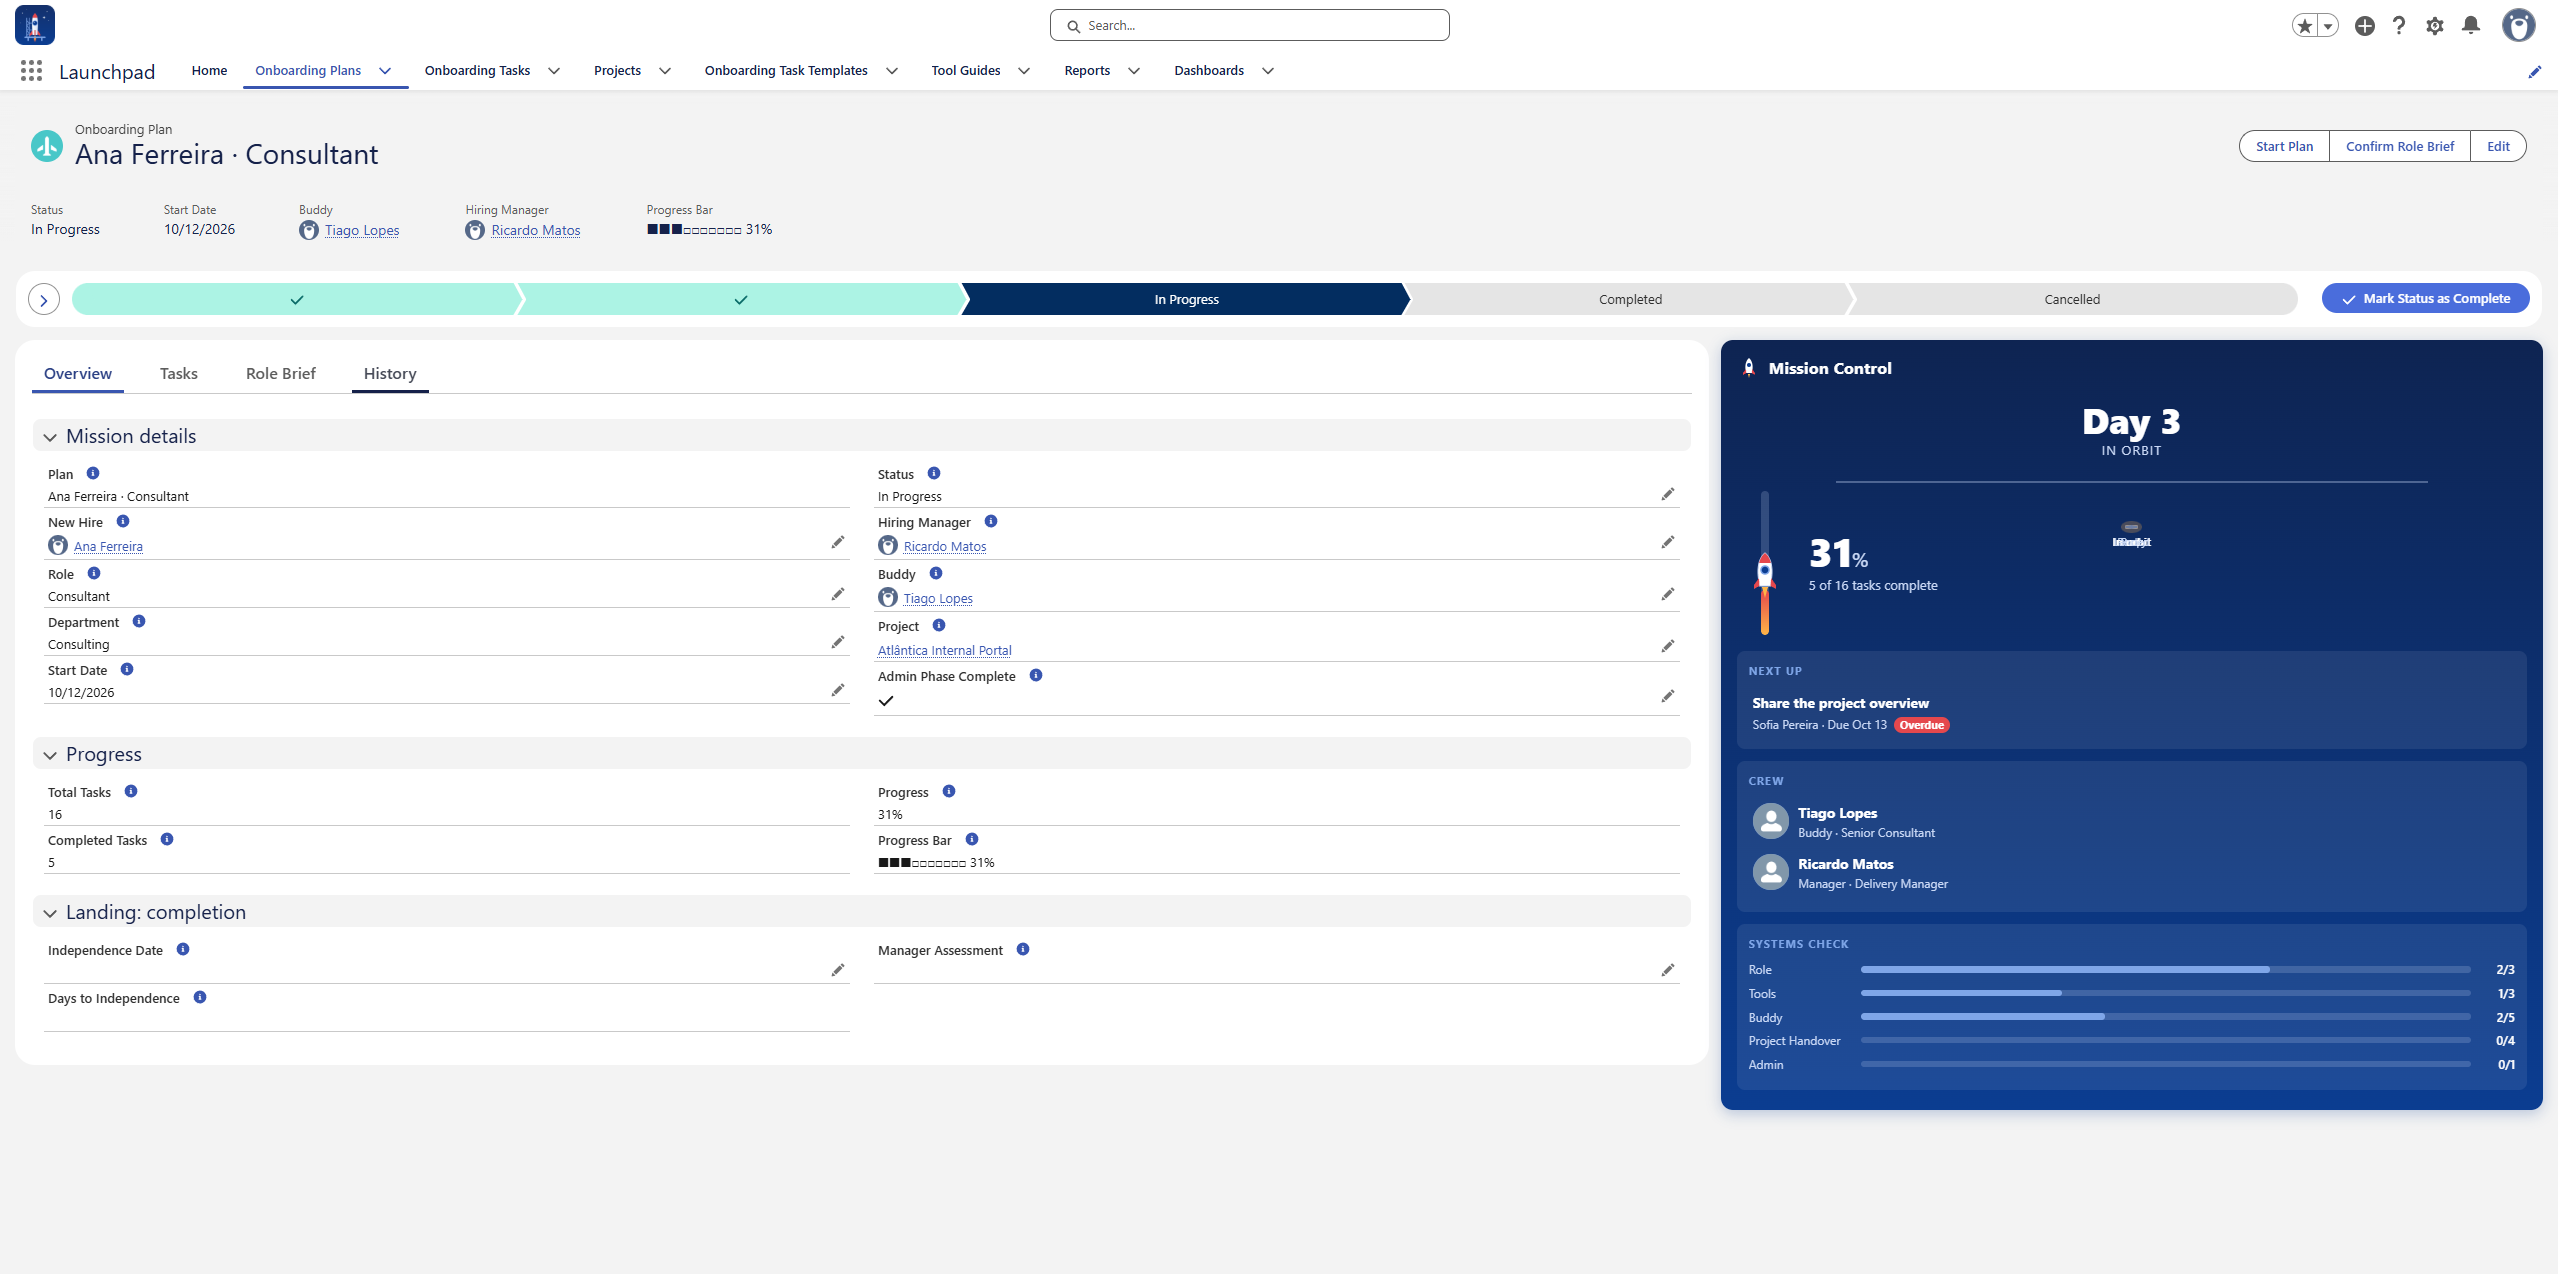
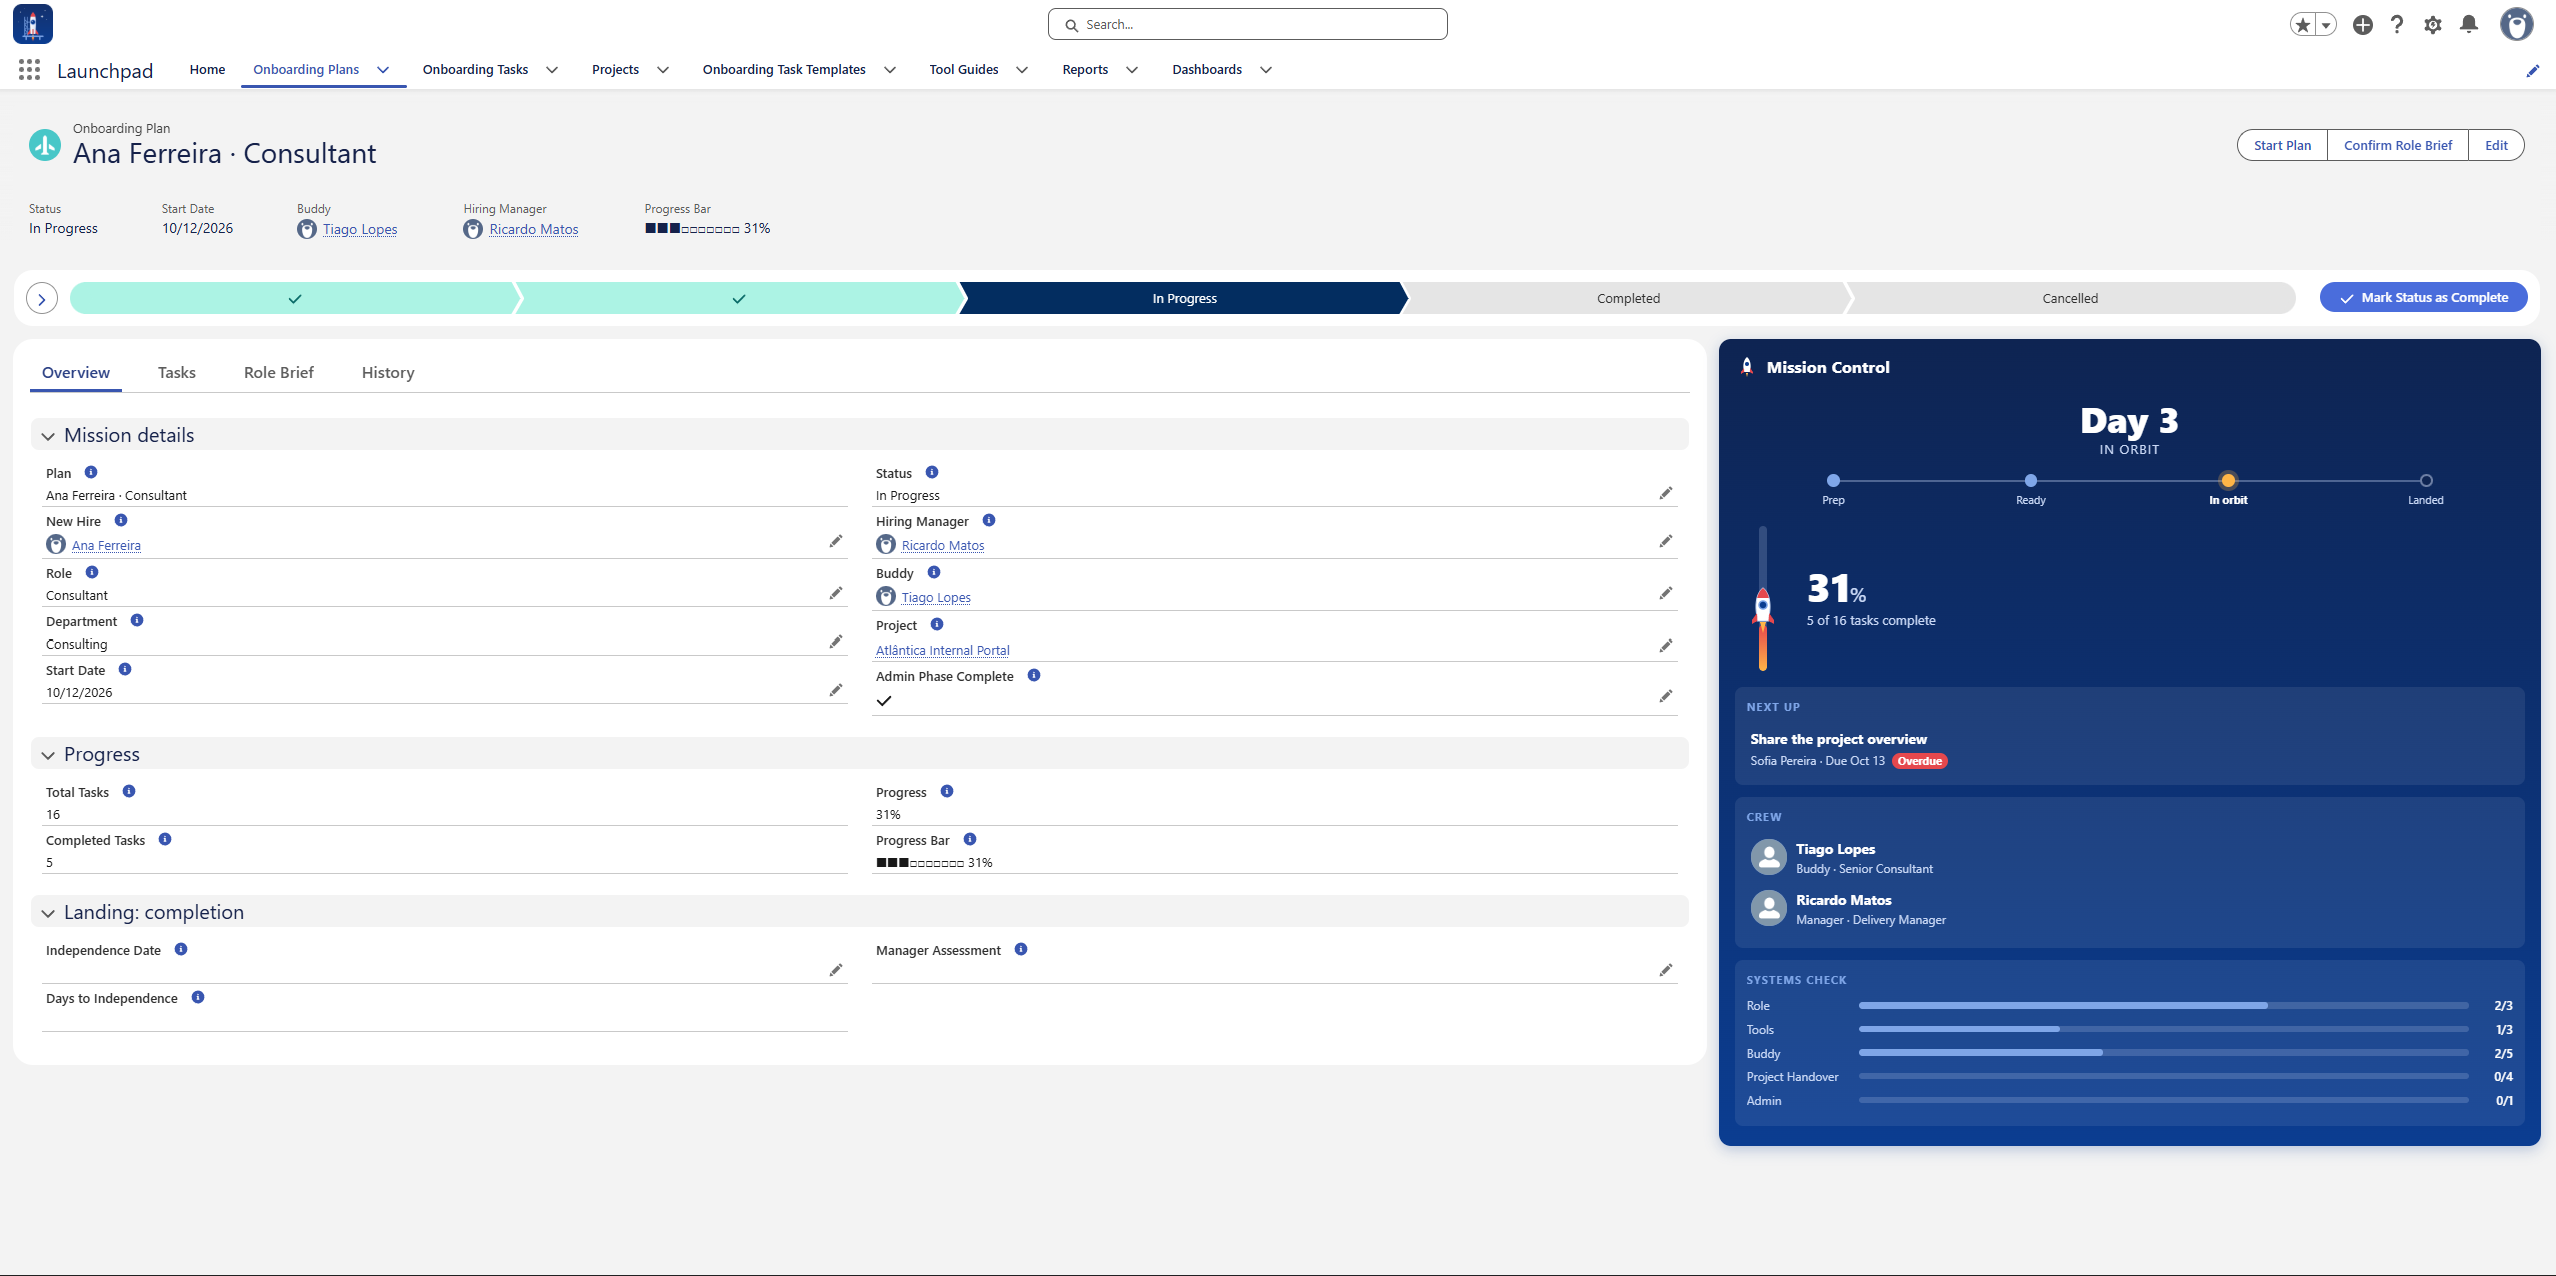
Mission Control: fix stage timeline styling; retake plan screenshot

diff --git a/force-app/main/default/lwc/missionControl/missionControl.css b/force-app/main/default/lwc/missionControl/missionControl.css
@@ -13,14 +13,14 @@
 .mc-countdown-big { font-size: 2.25rem; font-weight: 800; line-height: 1.1; }
 .mc-countdown-small { font-size: 0.8125rem; color: #c9d8f5; text-transform: uppercase; letter-spacing: 0.08em; }
 
-.mc-stages { position: relative; width: 100%; display: grid; grid-template-columns: repeat(4, 1fr); margin: 0.25rem 0 1rem; }
-.mc-stages-line { position: absolute; top: 0.4rem; left: 12.5%; right: 12.5%; height: 2px; background: rgba(201, 216, 245, 0.35); }
-.mc-stage { position: relative; display: flex; flex-direction: column; align-items: center; text-align: center; }
-.mc-stage-dot { display: block; width: 0.8rem; height: 0.8rem; border-radius: 50%; background: #0e2452; border: 2px solid rgba(201, 216, 245, 0.5); position: relative; z-index: 1; }
-.mc-stage-dot_done { background: #7fa6e8; border-color: #7fa6e8; }
-.mc-stage-dot_current { background: #ffb547; border-color: #ffb547; box-shadow: 0 0 0 4px rgba(255, 181, 71, 0.25); }
-.mc-stage-label { display: block; margin-top: 0.3rem; font-size: 0.6875rem; color: #c9d8f5; white-space: nowrap; }
-.mc-stage_current .mc-stage-label { color: #ffffff; font-weight: 700; }
+.mc-steps { position: relative; display: grid; grid-template-columns: repeat(4, minmax(0, 1fr)); min-height: 2.25rem; margin: 0.25rem 0 1rem; }
+.mc-steps-line { position: absolute; top: 0.4rem; left: 12.5%; right: 12.5%; height: 2px; background: rgba(201, 216, 245, 0.35); }
+.mc-step { position: relative; display: flex; flex-direction: column; align-items: center; text-align: center; }
+.mc-step-dot { display: block; width: 0.8rem; height: 0.8rem; border-radius: 50%; background: #0e2452; border: 2px solid rgba(201, 216, 245, 0.5); position: relative; z-index: 1; }
+.mc-step-dot_done { background: #7fa6e8; border-color: #7fa6e8; }
+.mc-step-dot_current { background: #ffb547; border-color: #ffb547; box-shadow: 0 0 0 4px rgba(255, 181, 71, 0.25); }
+.mc-step-label { display: block; margin-top: 0.3rem; font-size: 0.6875rem; color: #c9d8f5; white-space: nowrap; }
+.mc-step_current .mc-step-label { color: #ffffff; font-weight: 700; }
 
 .mc-gauge-row { display: flex; align-items: center; gap: 1rem; margin-bottom: 1rem; }
 .mc-gauge { position: relative; width: 3.5rem; height: 9rem; flex-shrink: 0; }

diff --git a/force-app/main/default/lwc/missionControl/missionControl.html b/force-app/main/default/lwc/missionControl/missionControl.html
@@ -16,12 +16,12 @@
                 <div class="mc-countdown-small">{countdown.small}</div>
             </section>
 
-            <div class="mc-stages">
-                <div class="mc-stages-line"></div>
+            <div class="mc-steps">
+                <div class="mc-steps-line"></div>
                 <template for:each={stages} for:item="stage">
                     <div key={stage.key} class={stage.cls}>
                         <span class={stage.dotCls}></span>
-                        <span class="mc-stage-label">{stage.label}</span>
+                        <span class="mc-step-label">{stage.label}</span>
                     </div>
                 </template>
             </div>

diff --git a/force-app/main/default/lwc/missionControl/missionControl.js b/force-app/main/default/lwc/missionControl/missionControl.js
@@ -170,7 +170,7 @@ export default class MissionControl extends NavigationMixin(LightningElement) {
             let state = 'todo';
             if (current > i || this.status === 'Completed') state = 'done';
             if (current === i && this.status !== 'Completed') state = 'current';
-            return { key: s, label: STAGE_LABELS[s], cls: `mc-stage mc-stage_${state}`, dotCls: `mc-stage-dot mc-stage-dot_${state}` };
+            return { key: s, label: STAGE_LABELS[s], cls: `mc-step mc-step_${state}`, dotCls: `mc-step-dot mc-step-dot_${state}` };
         });
     }
 
